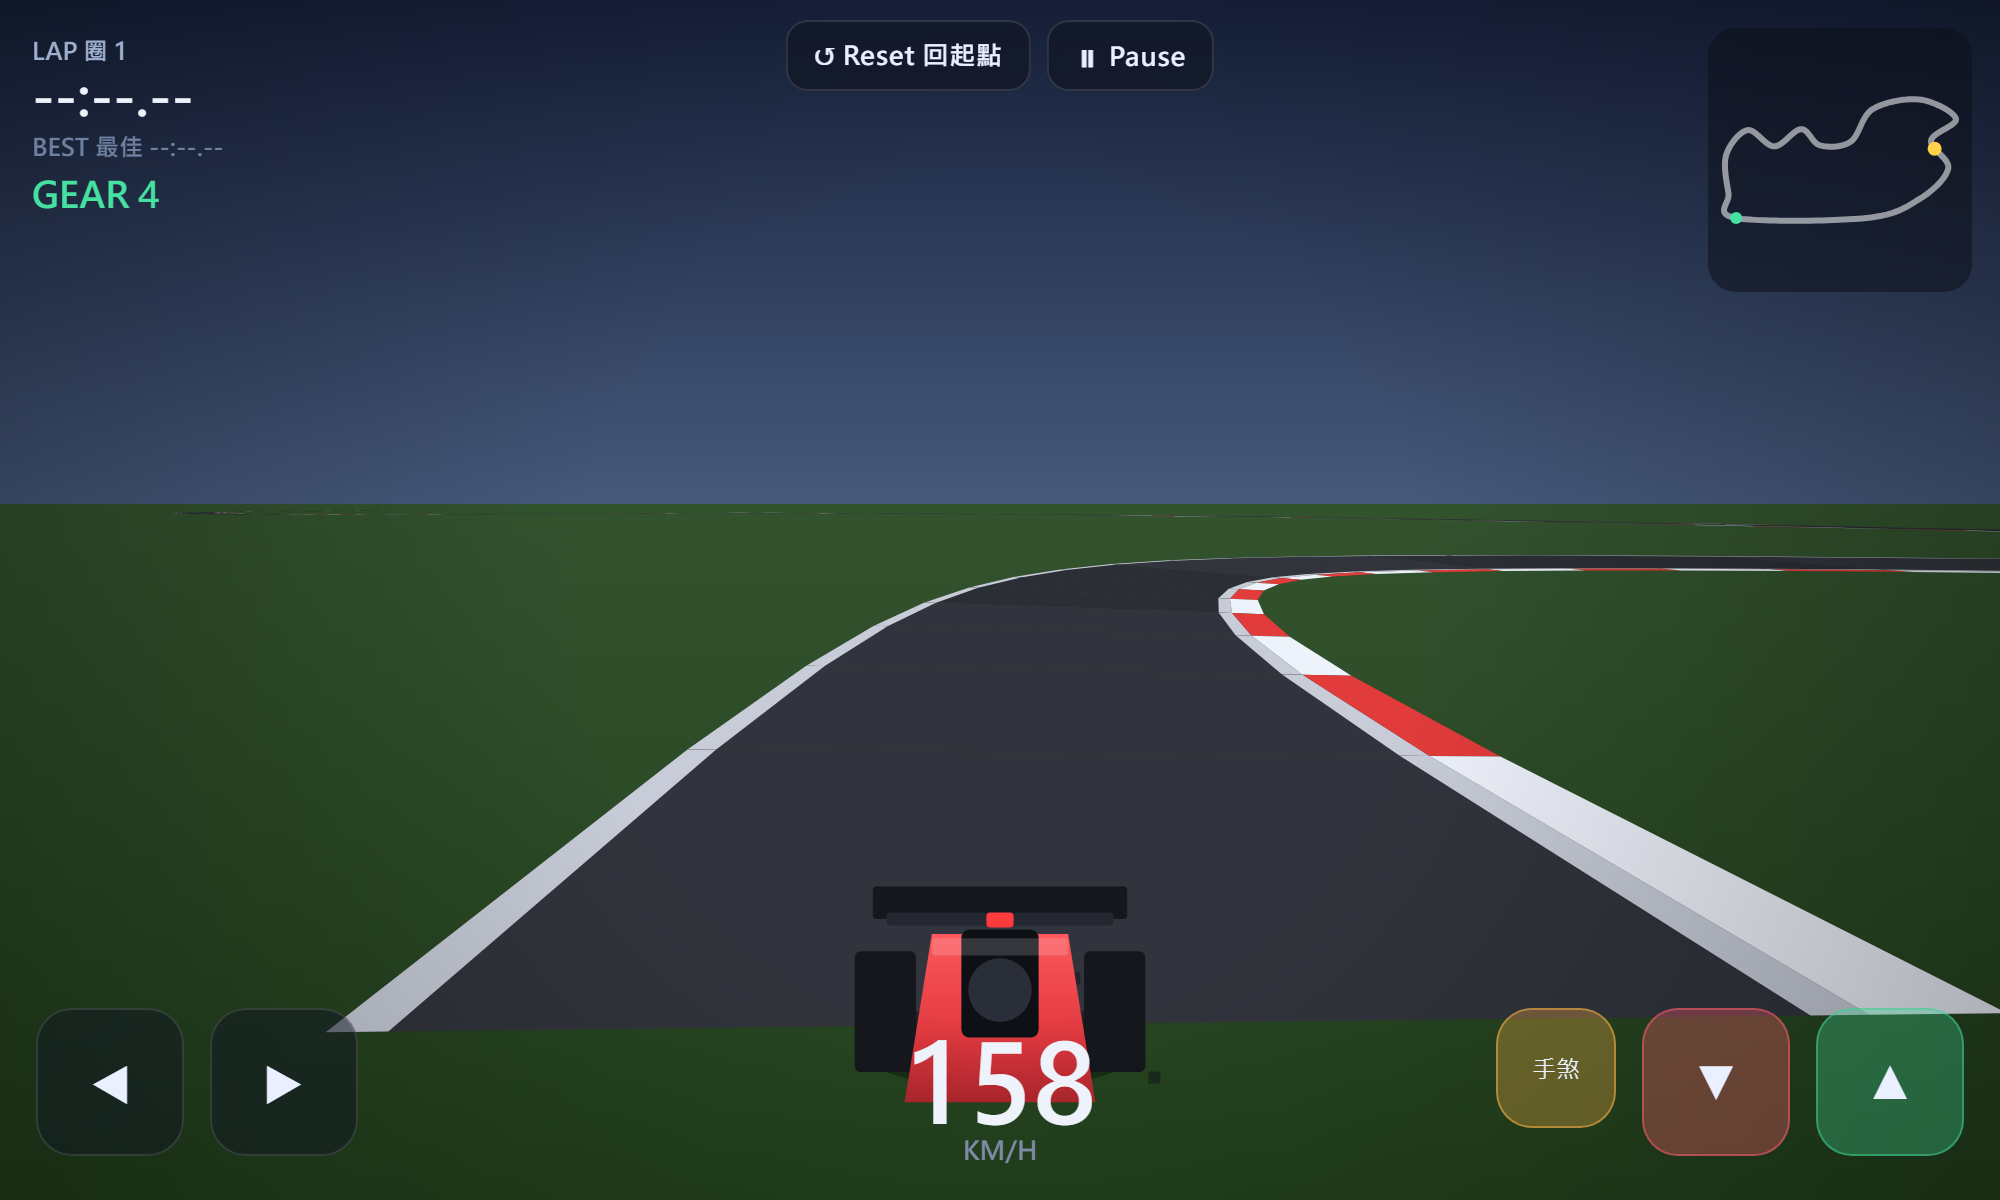
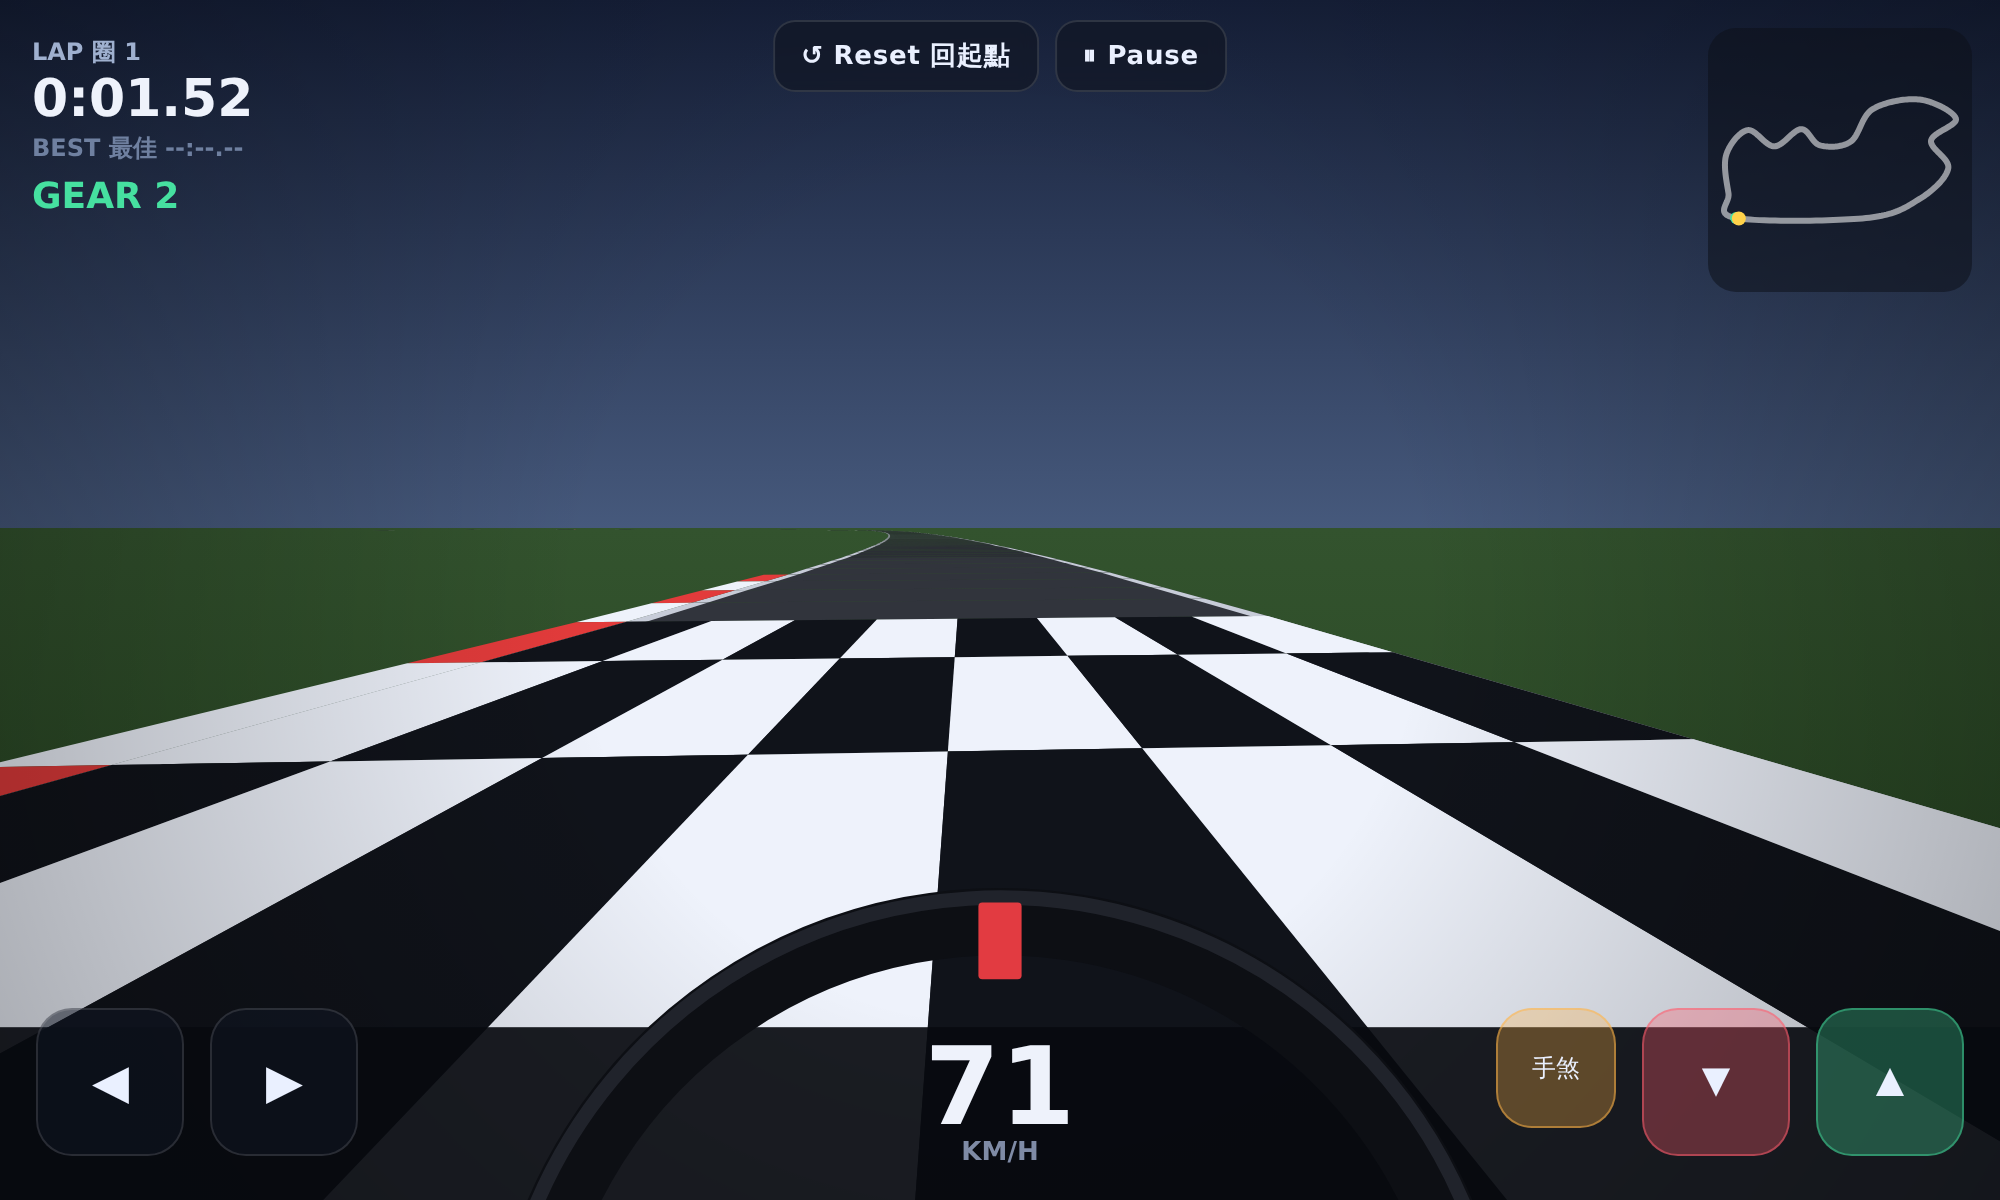
Add Apex GP to the home gallery + first-person screenshot
- Update f1_racing/screenshot.png to the new first-person cockpit view.
- Add the Apex GP card to the root index.html gallery.
- Add Apex GP to the README play table + a highlights section, and a per-game README.

diff --git a/index.html b/index.html
@@ -107,6 +107,11 @@ const GAMES = [
     title: '🏎 City Racer 城市賽車',
     desc: 'A cockpit-view racing game — gauges, steering wheel, engine sound and drifting, across timed levels in changing scenes (city, desert, grassland, seaside). 車內視角賽車：儀表板、方向盤、引擎聲與甩尾，限時闖關，場景隨關卡變換（城市、沙漠、草原、海邊）！',
   },
+  {
+    folder: 'f1_racing',
+    title: '🏁 Apex GP 賽車模擬',
+    desc: 'A first-person racing simulator — real grip, weight transfer and catchable slides, with a cockpit steering wheel on a hand-built circuit. 第一人稱賽車模擬：真實抓地與配重、可控甩尾，座艙方向盤、手工設計賽道！',
+  },
 ];
 
 document.getElementById('games').innerHTML = GAMES.map(g => `

diff --git a/README.md b/README.md
@@ -12,6 +12,7 @@ No install needed — they run right in your browser (computer, tablet, or phone
 | ✨ **Dress-Up Studio 換裝小遊戲** | [▶ Play 開始玩](https://javisofweiyen.github.io/my_games/dress-up-studio/) | Dress up your doll! Hair, hats, clothes, skirts, shoes, accessories — every piece in any color. Featuring an Ice Queen ❄ outfit. 幫娃娃換裝:髮型、帽子、衣服、裙子、鞋子、配件通通可以換,還有冰雪女王造型! |
 | 🧱 **Block Drop 方塊掉掉樂** | [▶ Play 開始玩](https://javisofweiyen.github.io/my_games/tetris/) | A cute Tetris! Stack the falling blocks and clear full rows. Keyboard or touch/swipe controls, next + hold pieces, levels, and a saved high score. 可愛版俄羅斯方塊:堆方塊、消滿行,支援鍵盤與手機滑動,有預告/暫存方塊、等級與最高分紀錄! |
 | 🏎 **City Racer 城市賽車** | [▶ Play 開始玩](https://javisofweiyen.github.io/my_games/city-racer/) | A cockpit-view pseudo-3D racer — speed + rev gauges, steering wheel, engine sound and corner drifting. Beat the clock each level to advance, through changing scenes (night city, day, desert, grassland, seaside). Keyboard or touch. 車內視角賽車:時速/轉速錶、方向盤、引擎聲與過彎甩尾,限時闖關,場景隨關卡變換(夜城、白天、沙漠、草原、海邊),支援鍵盤與觸控! |
+| 🏁 **Apex GP 賽車模擬** | [▶ Play 開始玩](https://javisofweiyen.github.io/my_games/f1_racing/) | A first-person racing **simulator** — real tyre grip, slip angles, weight transfer and catchable slides, on a hand-built circuit. First-person cockpit view with a steering wheel that turns as you do. Keyboard or touch. 第一人稱賽車**模擬**:真實輪胎抓地、滑移角、配重轉移與可控甩尾,手工設計賽道。第一人稱座艙視角,方向盤跟著你轉,支援鍵盤與觸控! |
 
 ![Dress-Up Studio screenshot](dress-up-studio/screenshot.png)
 
@@ -42,6 +43,15 @@ No install needed — they run right in your browser (computer, tablet, or phone
 - 🏞 **Changing scenes 場景變換** — night city, daytime, desert, grassland and seaside cycle as you level up 霓虹夜城、白天、沙漠、草原、海邊隨關卡輪替
 - 🔊 **Sound & drift 音效與甩尾** — engine note, tyre screech and a view that leans into the corners 引擎聲、甩尾摩擦聲,畫面隨過彎傾斜
 - ⌨📱 **Keyboard & touch 鍵盤與觸控** — arrows/WASD or on-screen buttons 方向鍵/WASD 或螢幕按鈕
+
+## 🏁 Apex GP Highlights 遊戲特色
+
+- 🧠 **Real driving physics 真實操控物理** — tyre slip angles, front/rear weight transfer and a grip limit, so the car understeers, slides and can be caught 輪胎滑移角、前後配重轉移與抓地極限,會推頭、會滑、抓得回來
+- 🪟 **First-person cockpit 第一人稱座艙** — eye-level view down the track with a steering wheel that turns as you steer 駕駛視線看出去,方向盤跟著你轉
+- 🛣 **Hand-built circuit 手工賽道** — a closed track with fast and slow corners, kerbs, grass runoff and a start/finish line 含快彎慢彎、紅白路肩、草地緩衝與起跑/終點線的封閉賽道
+- ⏱ **Lap timing 單圈計時** — live lap time and a saved best lap 即時單圈時間與最佳圈紀錄
+- 🔊 **Engine sound 引擎聲** — revs that rise and fall with speed and gear 隨速度與檔位起伏的引擎聲
+- ⌨📱 **Keyboard & touch 鍵盤與觸控** — W/↑ throttle, S/↓ brake, A/D steer, Space handbrake, or on-screen buttons W/↑ 油門、S/↓ 煞車、A/D 轉向、空白鍵手煞,或螢幕按鈕
 
 ## 🚀 Run Locally 在自己電腦上玩
 

diff --git a/f1_racing/README.md b/f1_racing/README.md
@@ -1,0 +1,45 @@
+# 🏁 Apex GP — Racing Sim 賽車模擬
+
+A first-person racing **simulator** (not an arcade game): real tyre grip and slip,
+weight transfer, lock-ups and catchable slides — you really *drive* it, on a
+hand-built circuit, from the cockpit with a steering wheel.
+
+第一人稱賽車**模擬**(不是街機):真實的輪胎抓地與滑移、配重轉移、煞車鎖死與可控甩尾
+— 你是真的在「開」車,在手工設計的賽道上,從座艙裡握著方向盤過彎。
+
+## ▶ Play 開始玩
+
+Double-click `index.html`, or play online:
+點兩下 `index.html`,或線上玩:
+https://javisofweiyen.github.io/my_games/f1_racing/
+
+## 🎮 Controls 操作
+
+| Action 動作 | Keyboard 鍵盤 | Touch 觸控 |
+|---|---|---|
+| Throttle 油門 | `W` / `↑` | ▲ |
+| Brake 煞車 | `S` / `↓` | ▼ |
+| Steer 轉向 | `A` `D` / `←` `→` | ◀ ▶ |
+| Handbrake 手煞 | `Space` | 手煞 |
+| Reset 回起點 | `R` | Reset |
+| Pause 暫停 | `P` | Pause |
+
+## 💡 Tips 小技巧
+
+- **Brake before the corner, not in it. 進彎前先煞車,別在彎中才煞。** Braking and turning
+  at the same time uses up all the grip and pushes you wide. 邊煞邊轉會用光抓地力而推頭跑寬。
+- Hit the **apex** (clip the inside kerb) and feed the throttle back in on the way out.
+  切 **Apex**(貼著內側路肩),出彎再慢慢補油。
+- Run onto the grass and you'll slow right down — steer back onto the asphalt to recover.
+  跑到草地上會大減速 — 把車轉回柏油路面就能恢復。
+
+## 🛠 How It's Made 怎麼做的
+
+One self-contained **HTML + Canvas 2D** file — no build, no libraries. The car uses a
+two-axle (bicycle) physics model with per-tyre slip angles and a friction-circle grip
+limit; the track is a Catmull-Rom centreline drawn in a chase/cockpit perspective.
+
+單一 **HTML + Canvas 2D** 檔,無需編譯、無外部函式庫。車輛用雙軸(自行車)物理模型,
+每個輪胎各自算滑移角並受抓地力圓限制;賽道是 Catmull-Rom 中線,用透視投影畫出座艙視角。
+
+See [`SPEC.md`](SPEC.md) for the full design spec. 完整設計規格見 [`SPEC.md`](SPEC.md)。
